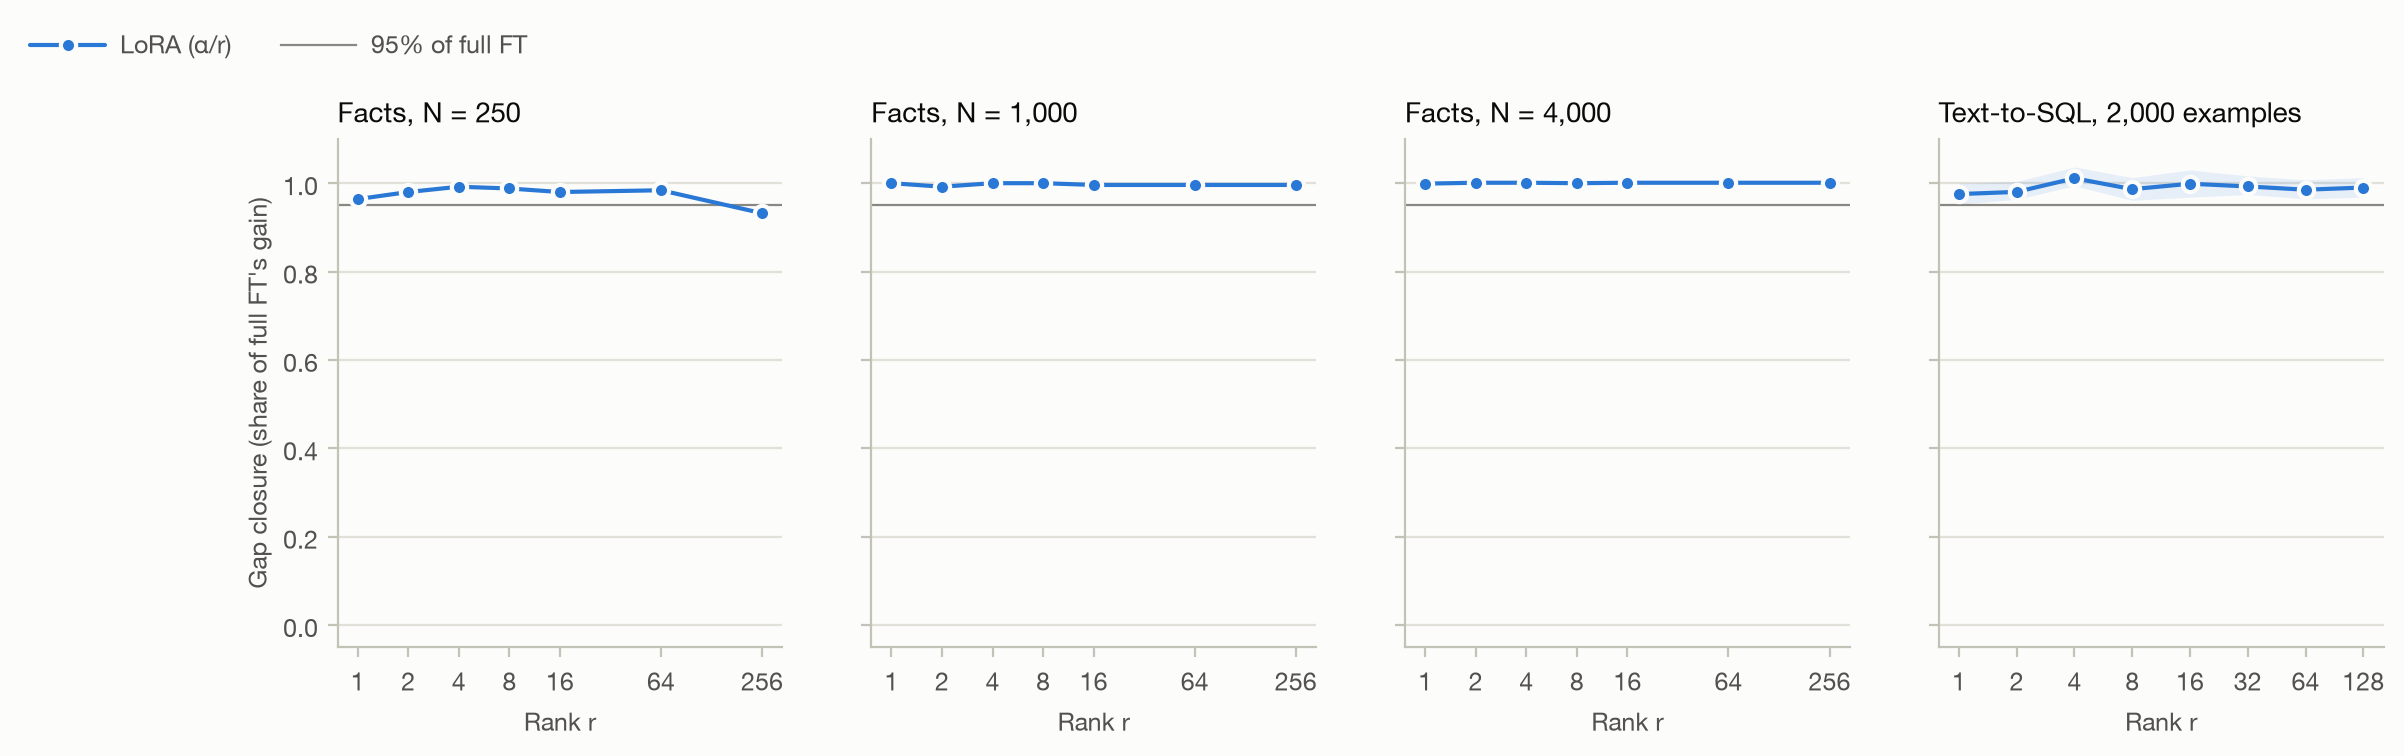
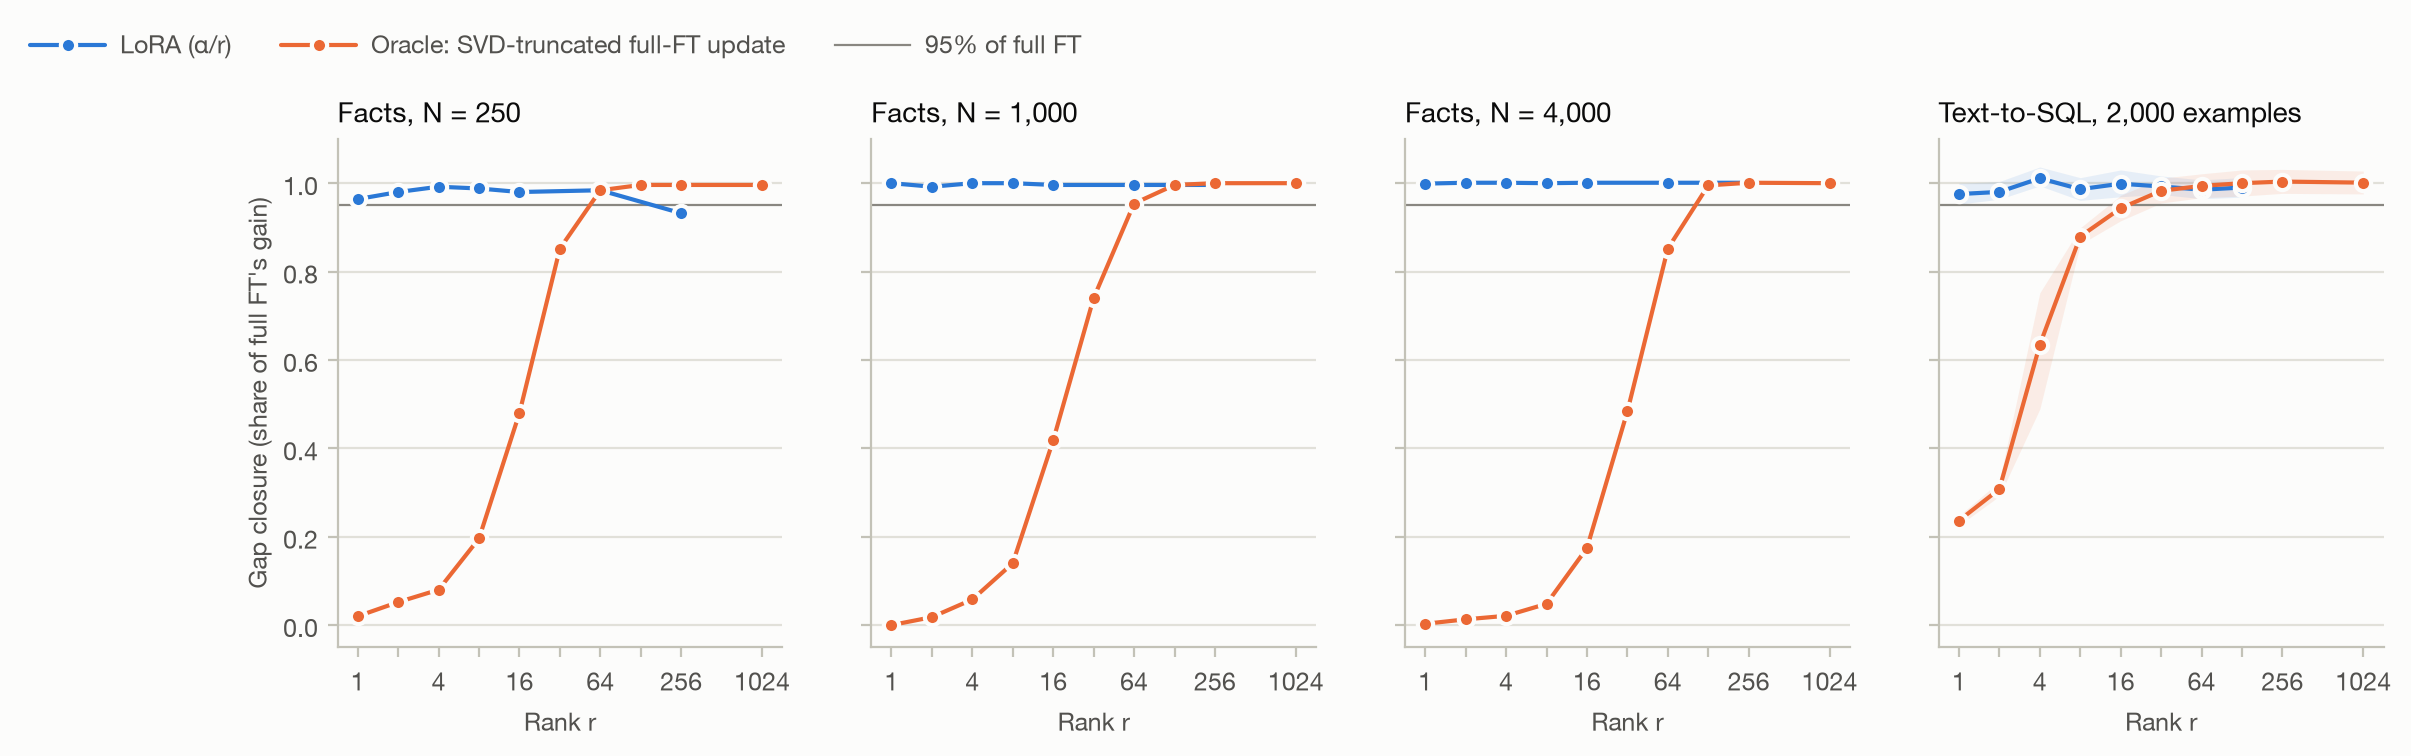
Final results: full FT's update rank grows with data, LoRA's need doesn't
Final registry: retrained full-FT, oracle, and spectrum rows merged ahead of grid_final's 55 training rows. H1 SQL supported (r* <= 1); H1 facts inconclusive (capacity never binds); H2a fails (energy rank 127-268 vs LoRA r* <= 1, though it tracks the oracle threshold within 2-3x on facts); H2b LoRA >> oracle everywhere (+0.24 to +0.70 mean gap closure). As facts grow 16x, the oracle threshold rises 64 -> 128 and the energy rank 127 -> 268, while rank-1 LoRA stays >= 96%. The README gets the regenerated results, the interpretation, an updated status, and the final resume bullet.

diff --git a/README.md b/README.md
@@ -4,10 +4,9 @@ A controlled study of the LoRA rank threshold on a decoder-only model (Qwen3-0.6
 question isn't *whether* LoRA is cheaper than full fine-tuning. It's **at what rank LoRA stops
 matching full FT, what sets that rank, and whether the limit is capacity or optimization.**
 
-> Status: **results in.** LR calibration (27 runs) and a scoped main grid (55 runs) ran on free Kaggle
-> 2×T4 sessions. The SVD-oracle sweep (H2) is being rerun after a device bug
-> ([log #17](docs/engineering_log.md)). Cut from this pass for budget: facts N=16k, extra facts seeds,
-> the rsLoRA/QLoRA ablations, and the 1.7B check.
+> Status: **complete for this pass.** LR calibration (27 runs), the main grid (55 runs), and the SVD-oracle
+> sweep (66 oracle evals over 6 full-FT runs) ran on free Kaggle 2×T4 sessions. Cut for budget: facts
+> N=16k, extra facts seeds, the rsLoRA/QLoRA ablations, and the 1.7B check.
 
 ## Hypotheses
 
@@ -37,26 +36,31 @@ _Generated by `scripts/write_results.py` from the run registry. Minimum seeds pe
 |---|---|---|
 | H1, skill task (SQL) | **supported** | r* ≤ 1 (prediction: ≤ 8) |
 | H1, knowledge task (facts) | **inconclusive** | LoRA reaches 95% of full FT at the smallest tested rank (1) for every N from 250 to 4,000: capacity never binds in the tested range, so growth can't be measured |
-| H2a, energy rank predicts r* | **not tested** | needs full-FT spectra and a reached LoRA r* |
+| H2a, energy rank predicts r* | **fails** | 0/4 settings within 2×. facts N=1,000: 90%-energy rank 192 vs r* 1; sql N=2,000: 90%-energy rank 181 vs r* 1; facts N=250: 90%-energy rank 127 vs r* 1; facts N=4,000: 90%-energy rank 268 vs r* 1 |
 
 **H2b, oracle truncation vs trained LoRA:**
 
-- not tested
+- Facts N=250: mean G(LoRA) − G(oracle) = +0.57 over ranks 1, 2, 4, 8, 16, 64, 256 → LoRA ≫ oracle: compact rank-r solutions exist that full FT didn't pick
+- Facts N=1,000: mean G(LoRA) − G(oracle) = +0.63 over ranks 1, 2, 4, 8, 16, 64, 256 → LoRA ≫ oracle: compact rank-r solutions exist that full FT didn't pick
+- Facts N=4,000: mean G(LoRA) − G(oracle) = +0.70 over ranks 1, 2, 4, 8, 16, 64, 256 → LoRA ≫ oracle: compact rank-r solutions exist that full FT didn't pick
+- SQL n=2,000: mean G(LoRA) − G(oracle) = +0.24 over ranks 1, 2, 4, 8, 16, 32, 64, 128 → LoRA ≫ oracle: compact rank-r solutions exist that full FT didn't pick
 
 **Resume bullet** (generated from the numbers above):
 
-> Designed and ran a 55-run LoRA rank × data-size study on Qwen3-0.6B against full fine-tuning on free Kaggle T4s; found LoRA recovers ≥95% of full fine-tuning's gain at rank 1 (the smallest tested) on text-to-SQL and rank 1 (the smallest tested) for 4,000 injected facts.
+> Designed and ran a 55-run LoRA rank × data-size study on Qwen3-0.6B against full fine-tuning on free Kaggle T4s; found LoRA recovers ≥95% of full fine-tuning's gain at rank 1 (the smallest tested) on text-to-SQL and rank 1 (the smallest tested) for 4,000 injected facts, and that trained LoRA beats SVD-truncated full-FT updates of equal rank by 0.54 mean gap closure: low-rank solutions exist that full fine-tuning doesn't find.
 
 ### Thresholds
 
 | Task | N | Base | Full FT | r* LoRA | r* LoRA (CI-strict) | r* oracle | 90%-energy rank of ΔW | Prediction / r* LoRA | Seeds |
 |---|---|---|---|---|---|---|---|---|---|
-| facts | 250 | 0.000 | 1.000 | 1 | 1 | — | — | — | 1 |
-| facts | 1,000 | 0.000 | 1.000 | 1 | 1 | — | — | — | 1 |
-| facts | 4,000 | 0.000 | 0.999 | 1 | 1 | — | — | — | 1 |
-| sql | 2,000 | 0.318 | 0.859 | 1 | 1 | — | — | — | 3 |
+| facts | 250 | 0.000 | 1.000 | 1 | 1 | 64 | 127 | 127.00× (outside 2×) | 1 |
+| facts | 1,000 | 0.000 | 1.000 | 1 | 1 | 64 | 192 | 192.00× (outside 2×) | 1 |
+| facts | 4,000 | 0.000 | 0.999 | 1 | 1 | 128 | 268 | 268.00× (outside 2×) | 1 |
+| sql | 2,000 | 0.318 | 0.859 | 1 | 1 | 32 | 181 | 181.00× (outside 2×) | 3 |
 
 ![Gap closure vs rank: trained LoRA and the SVD oracle, per setting](figures/gap_closure.png)
+
+![Share of the full-FT update's energy in its top-r directions](figures/spectrum.png)
 <!-- results:end -->
 
 ## What the results mean
@@ -74,9 +78,34 @@ That turns the null result into a testable prediction. Scaling N to ~10⁵ doesn
 compute, so the next experiment shrinks the adapter instead. LoRA r=1 on a single projection in one
 layer (~3–4k parameters) should hit its knee at a few hundred to a thousand facts, a few GPU-hours of work.
 
+**The oracle shows where the predicted growth actually lives: in full fine-tuning's update, not in
+what the task needs** ([log #19](docs/engineering_log.md)).
+
+| Facts N | Rank-1 LoRA | Rank-1 truncation of full FT's update | Oracle r\* | 90%-energy rank of ΔW |
+|---|---|---|---|---|
+| 250 | 0.964 | 0.020 | 64 | 127 |
+| 1,000 | 1.000 | 0.000 | 64 | 192 |
+| 4,000 | 0.998 | 0.003 | 128 | 268 |
+
+As facts grow 16×, full FT spreads its update over more directions: the energy rank roughly doubles and
+the oracle threshold rises from 64 to 128. That's the growth H1 predicted. But LoRA shows no such growth,
+because rank 1 was always enough. Full FT isn't finding a low-rank solution and adding noise on top: its
+top singular direction alone recovers essentially nothing. The practical reading is that **the effective
+rank of a full fine-tuning update overstates the rank an adapter needs**. Arguing "LoRA needs high rank
+because full-FT deltas are high-rank" doesn't hold here. H2a as stated fails for the same reason: the
+energy rank predicts the *oracle's* threshold (2–3× high on facts, 5.7× on SQL), not LoRA's.
+
 **Caveats:** the facts results are 1 seed each (SQL has 3). The capacity law was measured on full
 models, not adapters, so the estimate is order-of-magnitude only. The one high-rank dip (facts N=250,
 r=256: 0.932) is consistent with α/r underfitting, but the rsLoRA ablation that would test it was cut.
+The retrained full-FT runs the oracle used reproduced the originals exactly on facts and within ±0.004 on SQL.
+
+**Resume bullet:**
+
+> Ran a 55-run LoRA rank × data-size study on Qwen3-0.6B (free Kaggle T4s) with an SVD-truncation oracle of
+> the full fine-tuning update; found rank-1 LoRA recovers ≥95% of full fine-tuning on text-to-SQL and up to
+> 4,000 injected facts, while rank-1 truncations of the full-FT update recover ≤2%, showing the update's
+> effective rank (oracle threshold 64→128 as data grows 16×) overstates the rank LoRA needs.
 
 ## Design decisions (details in [`docs/engineering_log.md`](docs/engineering_log.md))
 

diff --git a/results/final/r_star.md b/results/final/r_star.md
@@ -1,6 +1,6 @@
 | Task | N | Base | Full FT | r* LoRA | r* LoRA (CI-strict) | r* oracle | 90%-energy rank of ΔW | Prediction / r* LoRA | Seeds |
 |---|---|---|---|---|---|---|---|---|---|
-| facts | 250 | 0.000 | 1.000 | 1 | 1 | — | — | — | 1 |
-| facts | 1,000 | 0.000 | 1.000 | 1 | 1 | — | — | — | 1 |
-| facts | 4,000 | 0.000 | 0.999 | 1 | 1 | — | — | — | 1 |
-| sql | 2,000 | 0.318 | 0.859 | 1 | 1 | — | — | — | 3 |
+| facts | 250 | 0.000 | 1.000 | 1 | 1 | 64 | 127 | 127.00× (outside 2×) | 1 |
+| facts | 1,000 | 0.000 | 1.000 | 1 | 1 | 64 | 192 | 192.00× (outside 2×) | 1 |
+| facts | 4,000 | 0.000 | 0.999 | 1 | 1 | 128 | 268 | 268.00× (outside 2×) | 1 |
+| sql | 2,000 | 0.318 | 0.859 | 1 | 1 | 32 | 181 | 181.00× (outside 2×) | 3 |
